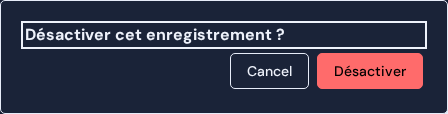
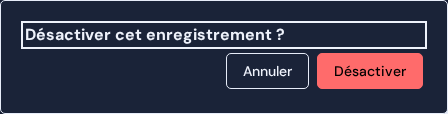
JRN-42: the French confirmation and sign-in figures are approved again, with Annuler and ou
Approved from the journeys job of CI run 45994932434, attempt 1: en and fr passed all four
steps on the first attempt on Chromium 158.0.8127.18. English is unchanged; in French the
confirmation dialog's Cancel is Annuler and the sign-in divider's or is ou. The two
replaced figures leave the site, and the page and lock follow.

Plane-Ticket: JRN-42

Changed region(s): [[0.5, 0.4474, 0.6562, 0.7895]]

diff --git a/docs/journeys/fr/revoke_a_leavers_access.md b/docs/journeys/fr/revoke_a_leavers_access.md
@@ -6,7 +6,7 @@ kind: "how-to"
 locale: "fr"
 version: 1
[1 lines of base64/hex data omitted]
-commit: "9bd2f0b1523fe9fcd85629806d01283d68f8efcb"
+commit: "7337b7a8cb7f262496ed258fa8c075f0e3e65486"
 ---
 
 # Révoquer l'accès d'une personne qui s'en va
@@ -21,7 +21,7 @@ La personne qui s'en va ne peut plus utiliser l'application.
 
 3. Choisissez **Désactiver** sur sa ligne, puis confirmez.
 
-   ![Choisissez Désactiver sur sa ligne, puis confirmez.](../../../site/src/assets/journeys/ed61586ba5fe45d006b1e783c1dd56fe8696a6092382ec013a5383ecbcf2abc3.png)
+   ![Choisissez Désactiver sur sa ligne, puis confirmez.](../../../site/src/assets/journeys/3a39e3e173d3f5aa3bb68fdadb419c53b655120e89fde7985e2614cfb567ea2e.png)
 
    ![Choisissez Désactiver sur sa ligne, puis confirmez.](../../../site/src/assets/journeys/b838b1e8a1c72bc8c471704f1cf411437d888b49c06cbd2cb0a95e89004ee4e0.png)
 
@@ -30,6 +30,6 @@ La personne qui s'en va ne peut plus utiliser l'application.
 
 4. La prochaine fois que cette personne ouvre l'application, elle est renvoyée vers la page de connexion.
 
-   ![La prochaine fois que cette personne ouvre l'application, elle est renvoyée vers la page de connexion.](../../../site/src/assets/journeys/2b3eb7f5f37a2b000afb97bed14d6a849ac0d738729039a4b769ed939c3b4e46.png)
+   ![La prochaine fois que cette personne ouvre l'application, elle est renvoyée vers la page de connexion.](../../../site/src/assets/journeys/fac4ed33041009168e064c442982cea2a0e314e2c6fedf069ad0c0b544b03bab.png)
 
 Son compte est inactif, et sa prochaine action dans l'application la renvoie vers la page de connexion.
